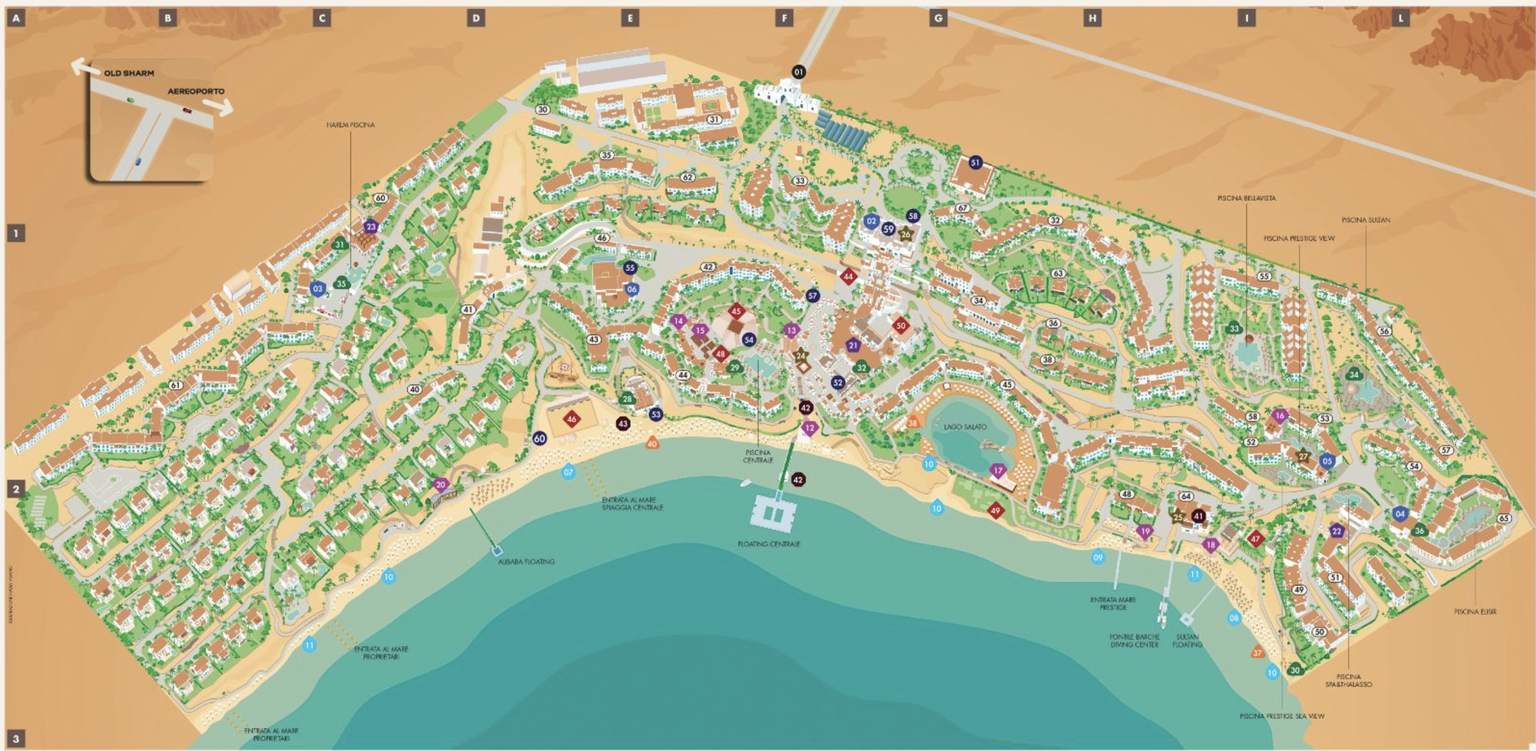
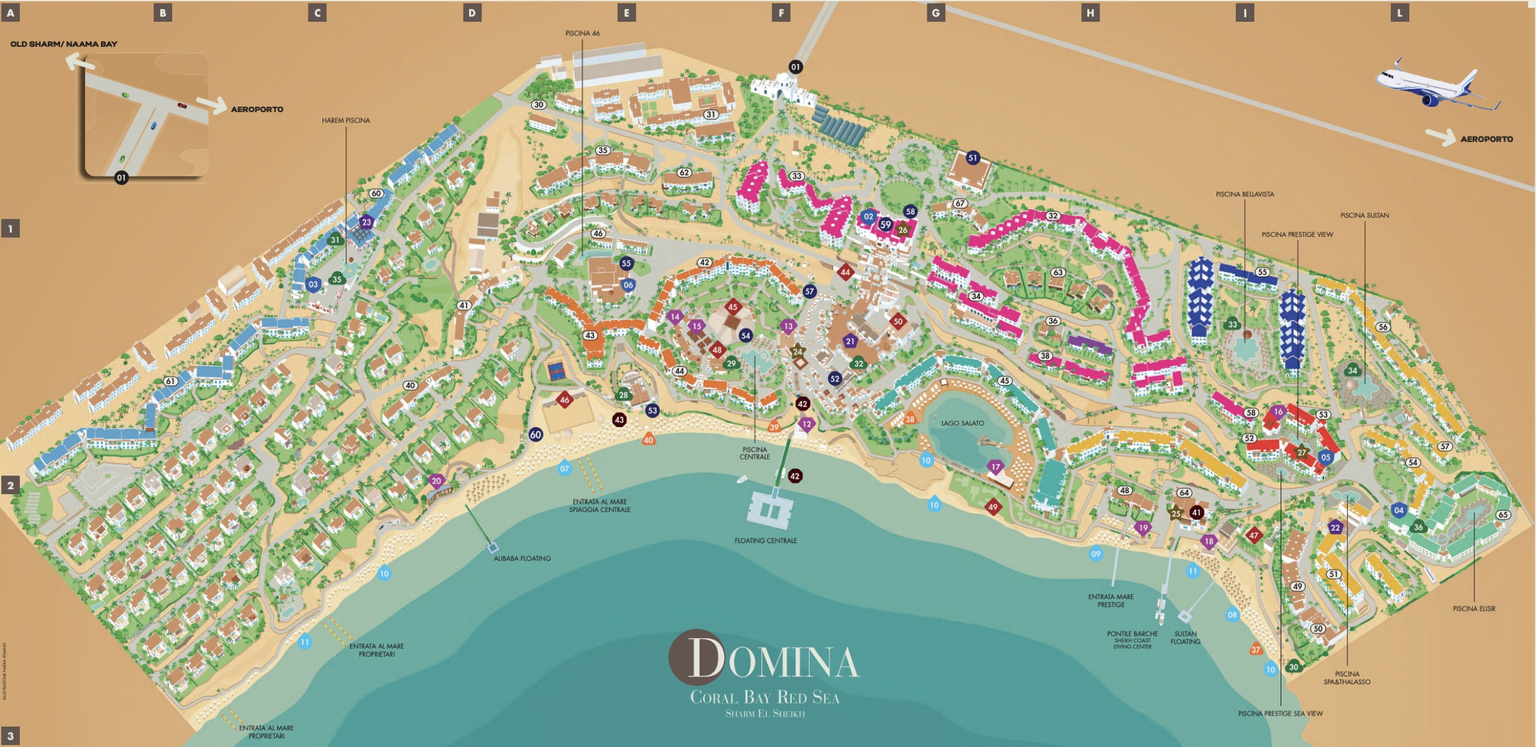
feat(map): upgrade to high-detail official Domina Coral Bay illustrated map
Replaces previous lower-quality version. Same 2.05:1 aspect ratio,
displayed in full via object-contain. All blocks/landmarks legible.

diff --git a/admin/appartamento-edit.php b/admin/appartamento-edit.php
@@ -298,7 +298,7 @@ require __DIR__ . '/../partials/admin-shell-top.php';
       </div>
 
       <div class="relative rounded-2xl overflow-hidden border-2 border-sky-200 dark:border-sky-500/30 bg-amber-50 dark:bg-ink-900 select-none" style="aspect-ratio: 2.05 / 1;">
-        <img src="/assets/resort-map.jpg?v=4" alt="Mappa resort Domina Coral Bay" id="resort_map_img" class="absolute inset-0 w-full h-full object-contain" draggable="false">
+        <img src="/assets/resort-map.jpg?v=5" alt="Mappa resort Domina Coral Bay" id="resort_map_img" class="absolute inset-0 w-full h-full object-contain" draggable="false">
         <div id="resort_marker" class="absolute z-10 -translate-x-1/2 -translate-y-full cursor-grab active:cursor-grabbing transition-opacity duration-200" style="left: <?= $f['map_x'] !== null ? round((float)$f['map_x']*100,2) : 50 ?>%; top: <?= $f['map_y'] !== null ? round((float)$f['map_y']*100,2) : 50 ?>%; <?= $f['map_x'] === null ? 'opacity:0;pointer-events:none;' : '' ?>">
           <div class="relative">
             <div class="absolute -bottom-1 left-1/2 -translate-x-1/2 w-6 h-2 bg-black/30 rounded-full blur-sm"></div>

diff --git a/pulizia.php b/pulizia.php
@@ -102,7 +102,7 @@ require __DIR__ . '/partials/head.php';
           </div>
         </div>
         <div class="relative bg-amber-50 dark:bg-ink-900" style="aspect-ratio: 2.05 / 1;">
-          <img src="/assets/resort-map.jpg?v=4" alt="Mappa resort Domina Coral Bay" class="absolute inset-0 w-full h-full object-contain" draggable="false">
+          <img src="/assets/resort-map.jpg?v=5" alt="Mappa resort Domina Coral Bay" class="absolute inset-0 w-full h-full object-contain" draggable="false">
           <!-- Pulse ring -->
           <div class="absolute -translate-x-1/2 -translate-y-1/2 pointer-events-none" style="left: <?= round((float)$s['map_x']*100,2) ?>%; top: <?= round((float)$s['map_y']*100,2) ?>%;">
             <span class="block h-16 w-16 rounded-full bg-red-500/30 animate-ping"></span>
